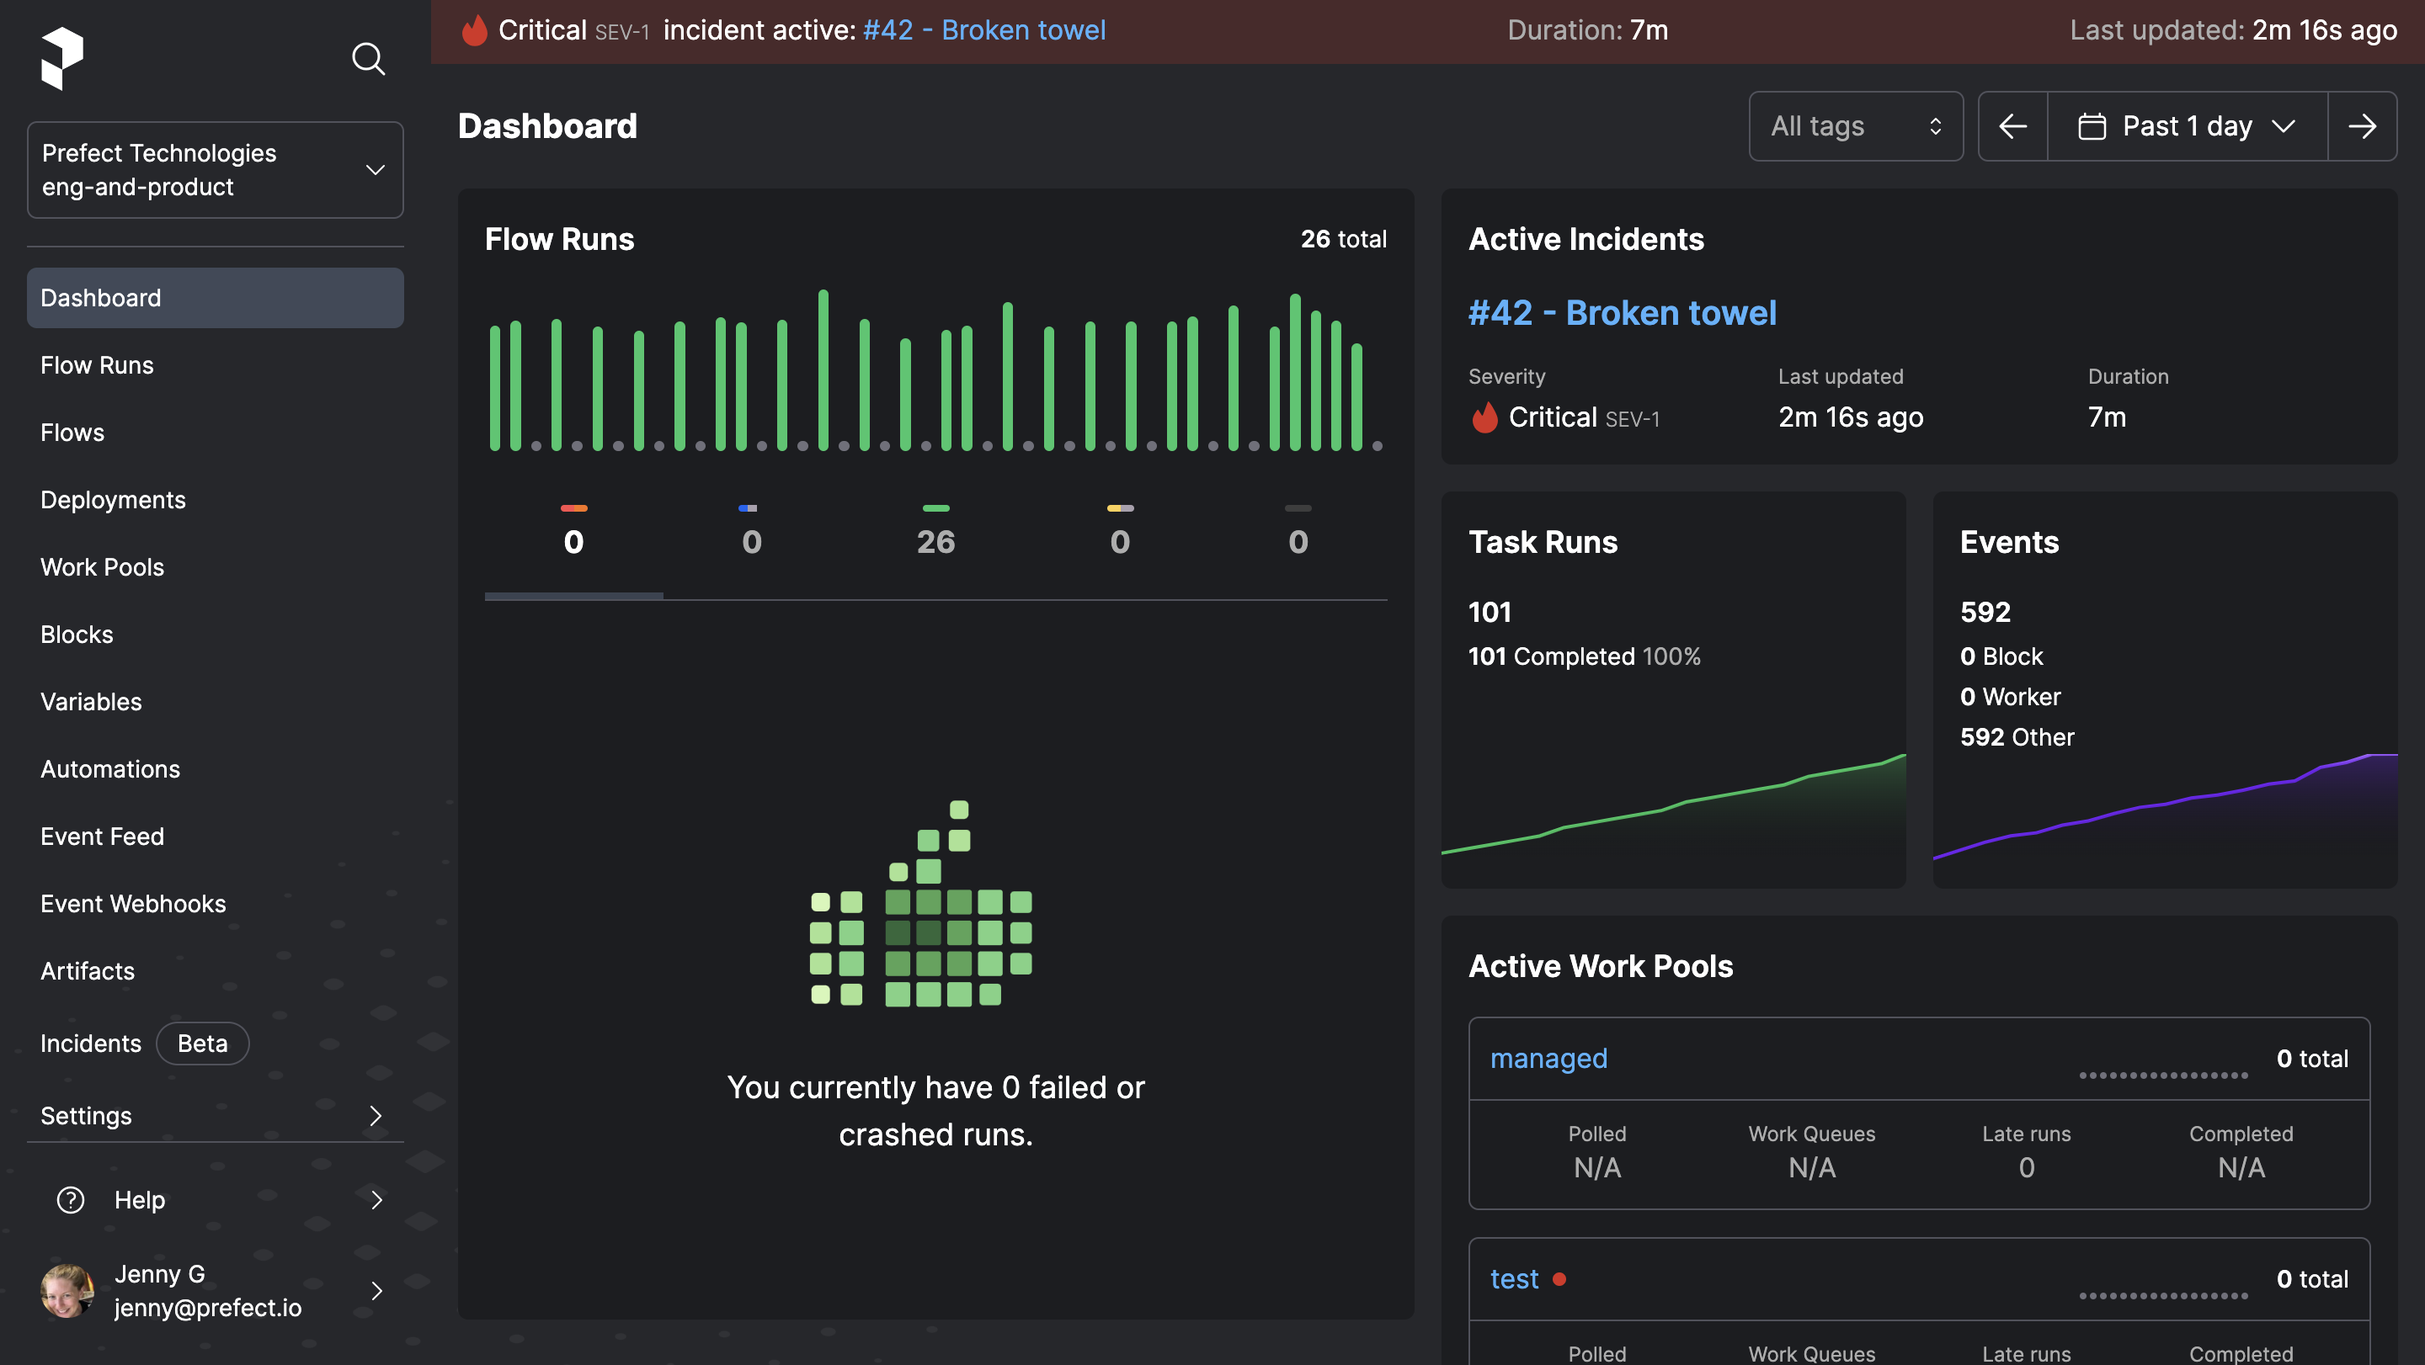
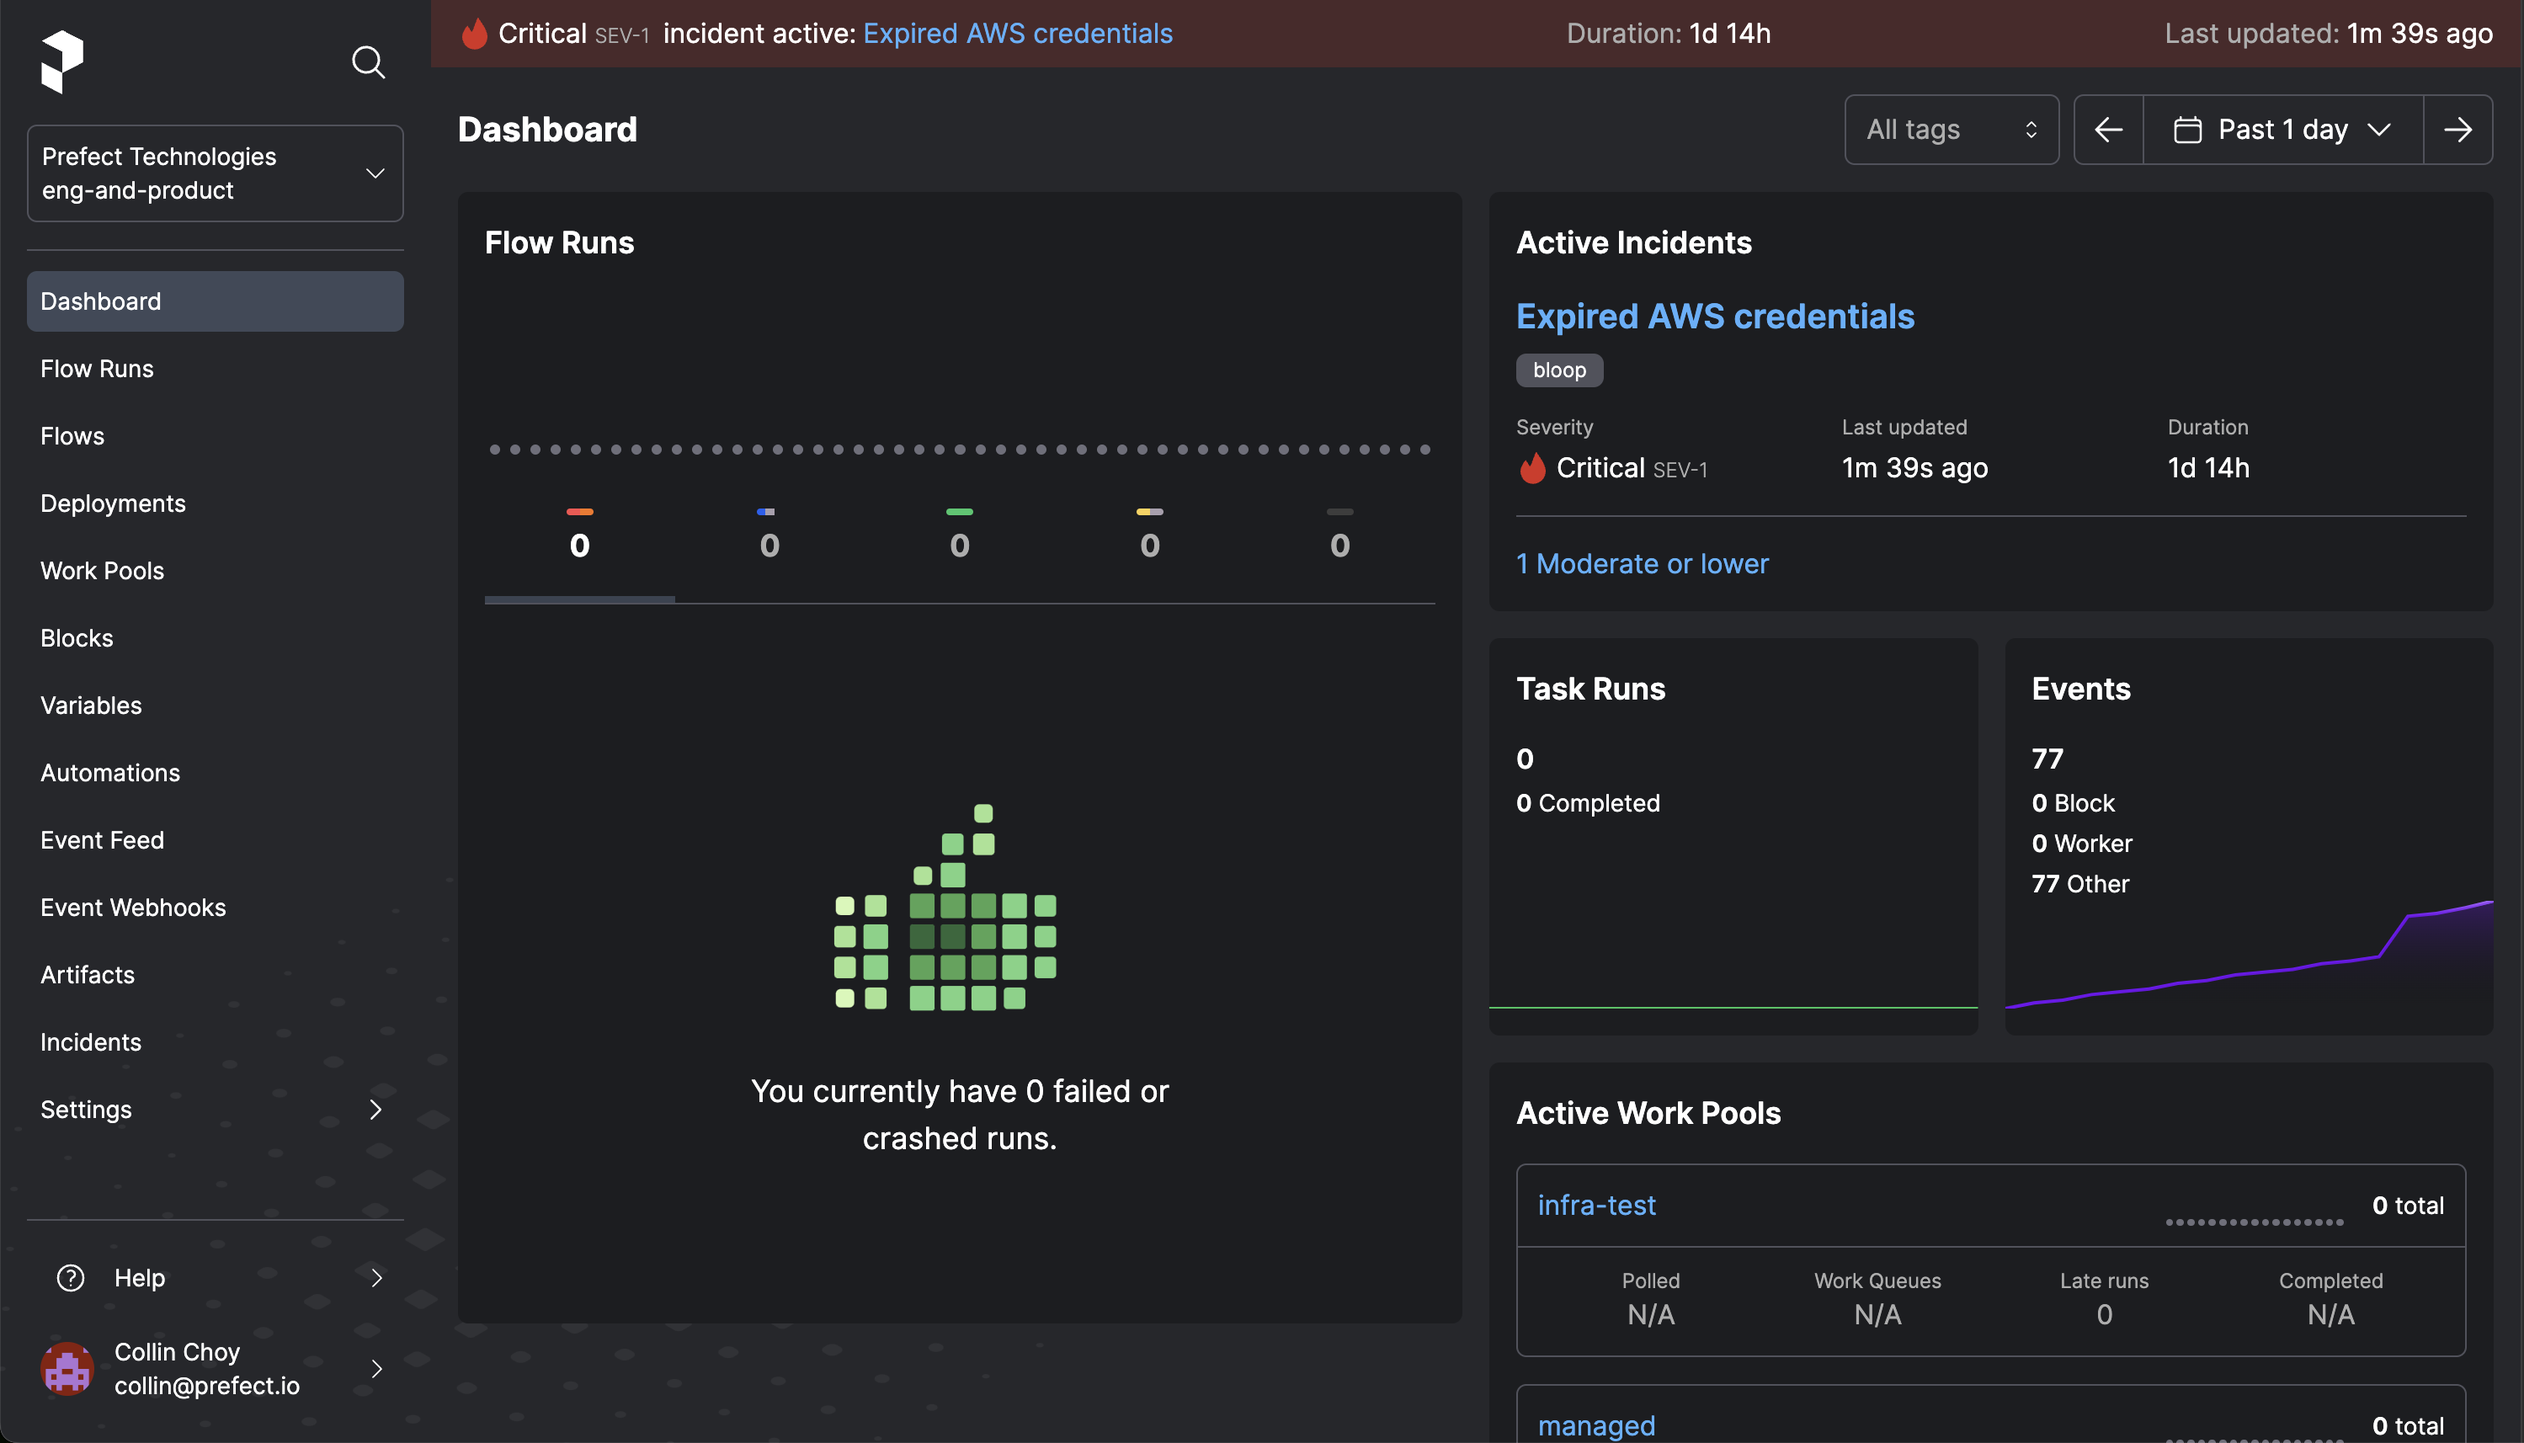
Remove beta tag from incident docs and screenshots.

diff --git a/docs/cloud/incidents.md b/docs/cloud/incidents.md
@@ -6,7 +6,7 @@ search:
   boost: 2
 ---
 
-# Incidents <span class="badge cloud"></span>  <span class="badge pro"></span> <span class="badge enterprise"></span> <span class="badge beta"/>
+# Incidents <span class="badge cloud"></span>  <span class="badge pro"></span> <span class="badge enterprise"></span>
 
 ## Overview
 
